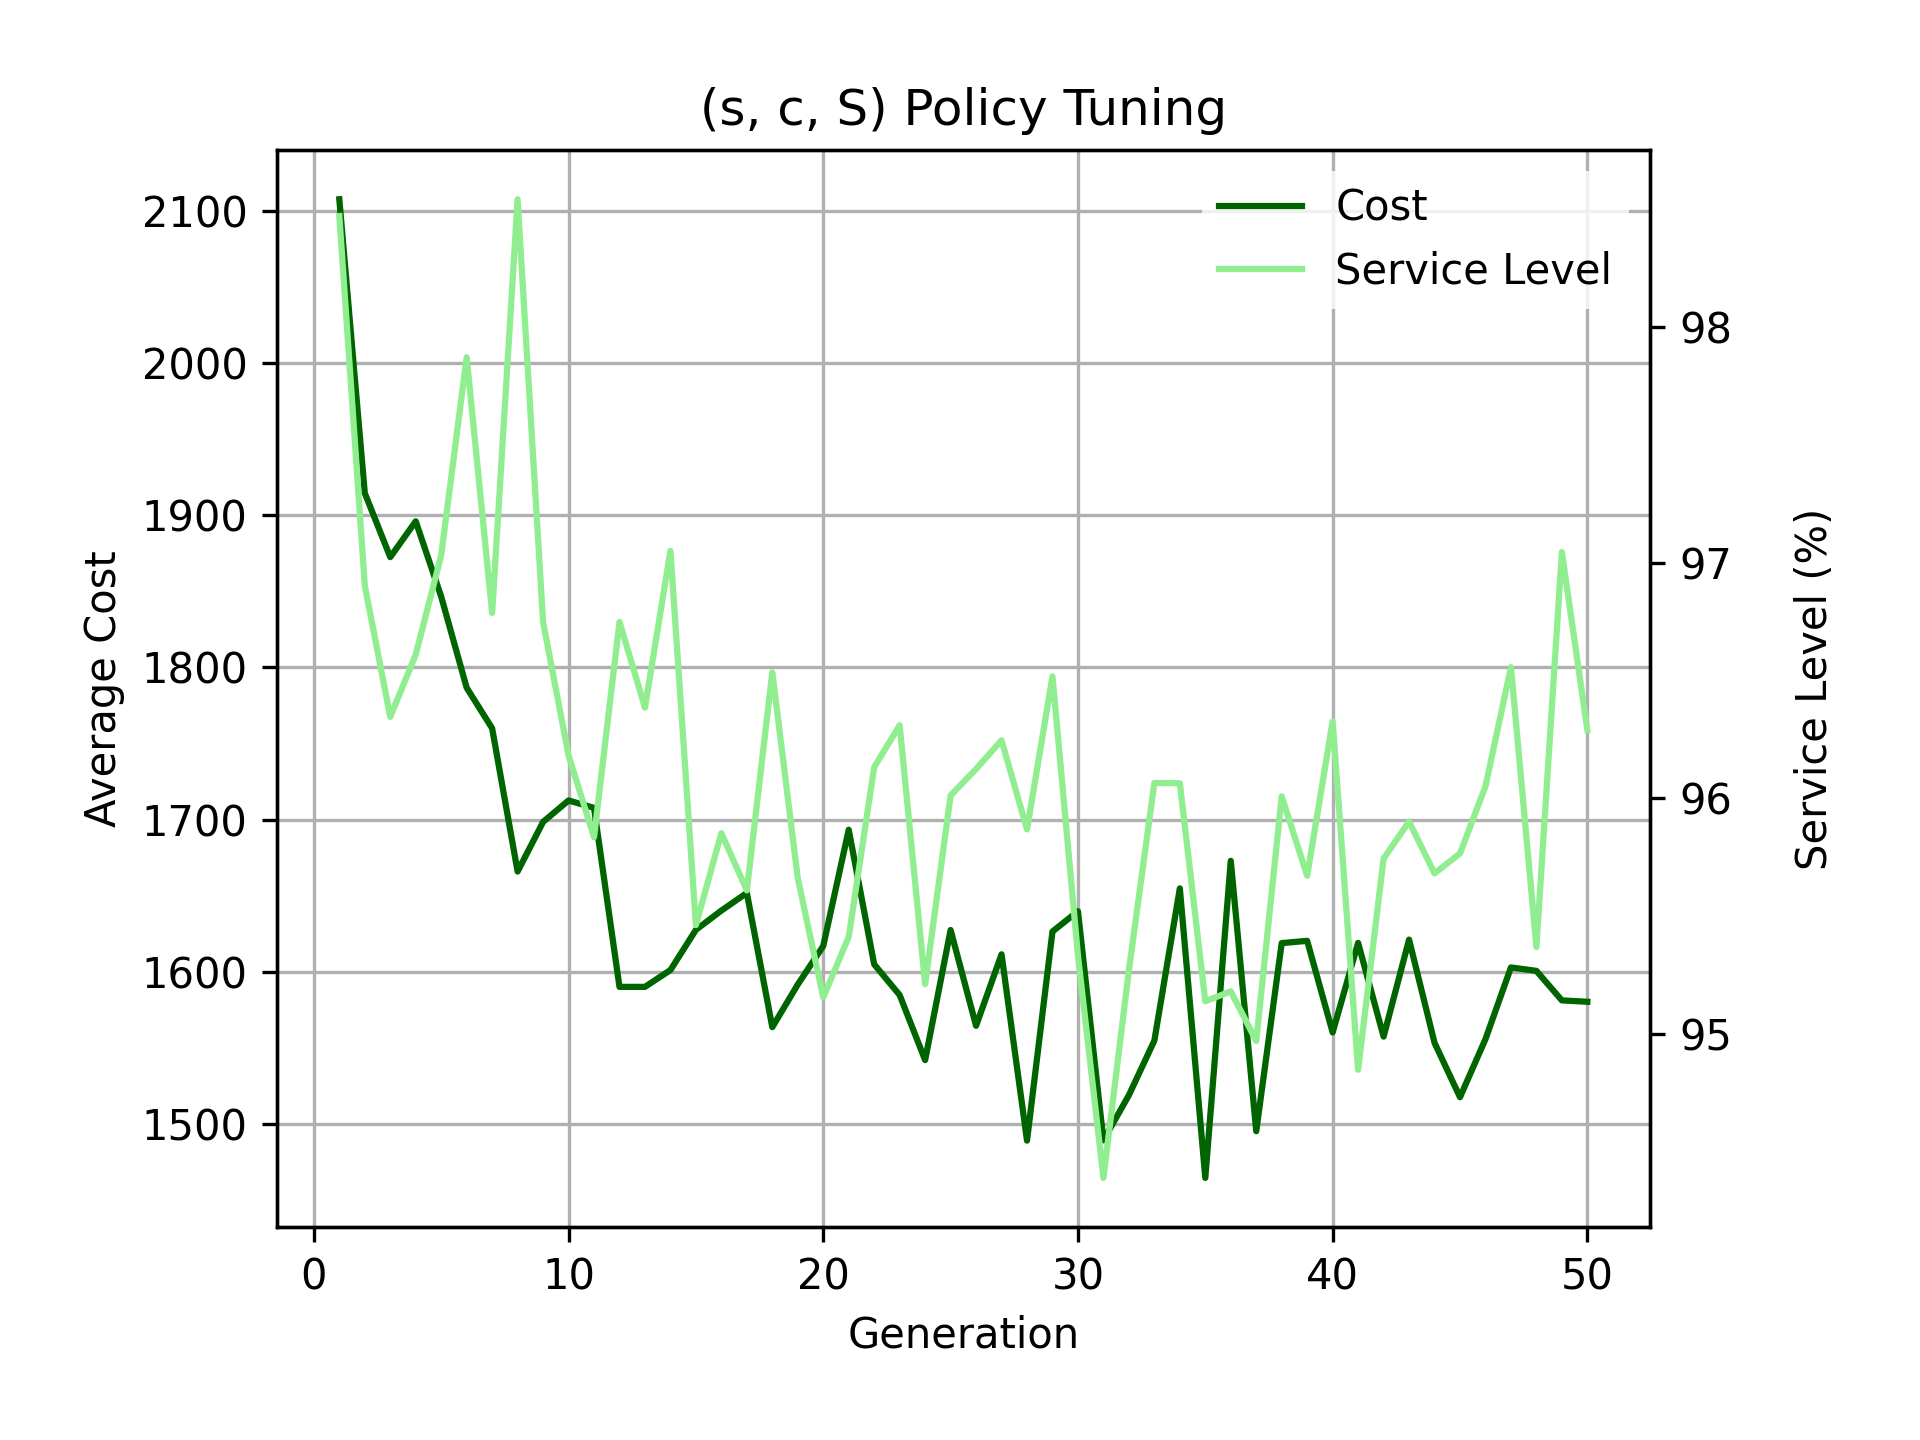
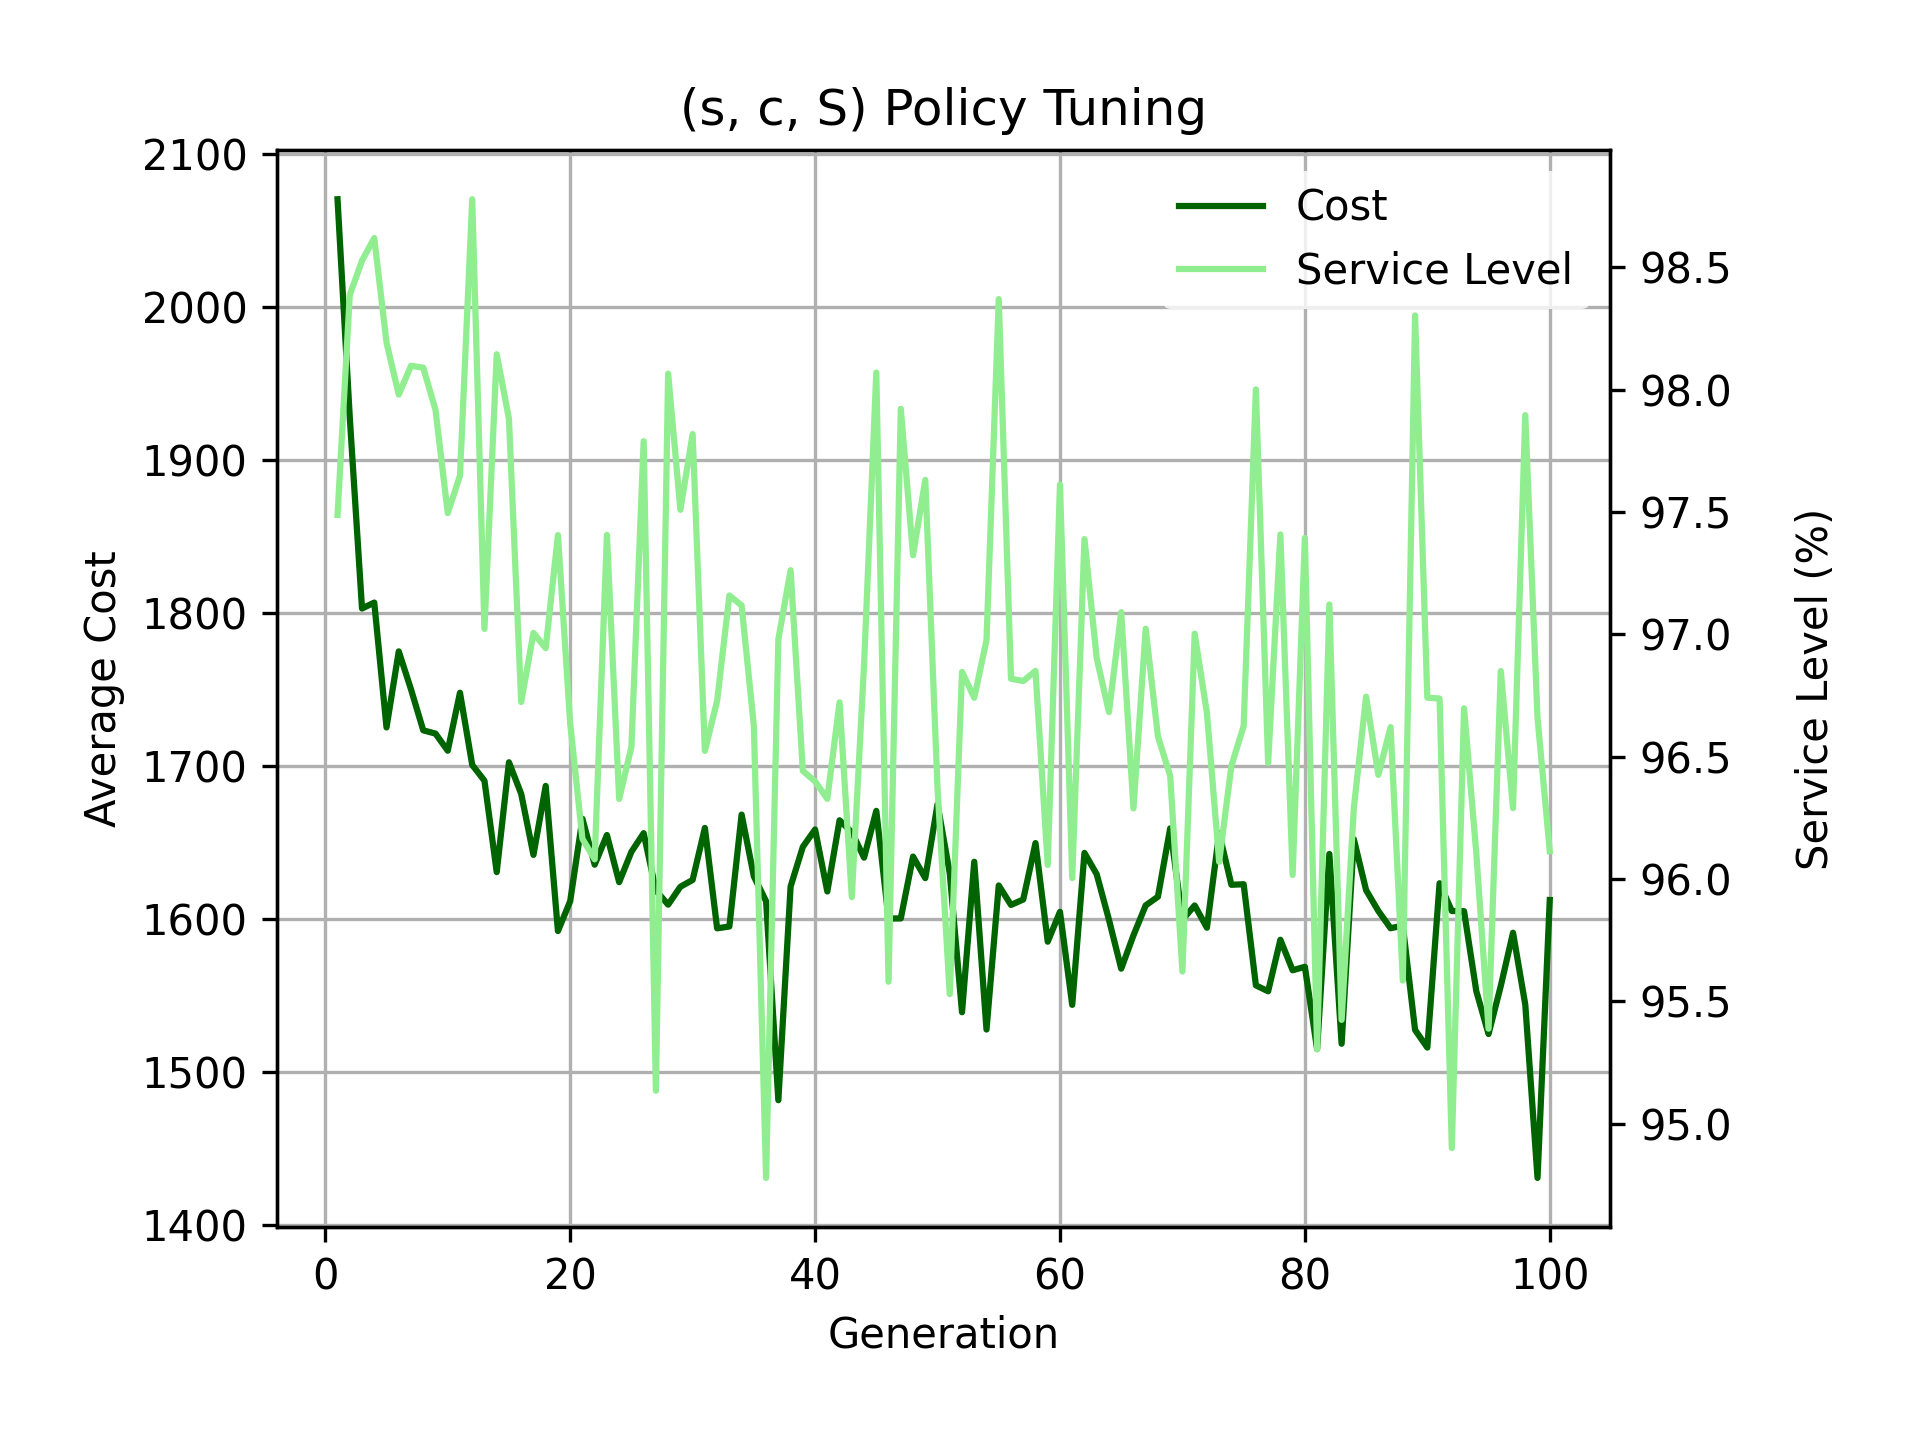
general updates and fixed simulation

diff --git a/CanOrder_JointReplenishment/src/CanOrder_JointReplenishment/demand.py b/CanOrder_JointReplenishment/src/CanOrder_JointReplenishment/demand.py
@@ -33,27 +33,21 @@ def create_empirical_distribution(demand_data, setup):
         demand_data (numpy.ndarray): 2D array of demand data.
         setup (dict): Dictionary containing setup parameters:
             - 'num_items' (int): Number of items.
-            - 'num_samples' (int): Number of samples to generate for each item.
     
     Returns:
         numpy.ndarray: 2D array of empirical distributions for each item.
     """
     num_items = setup['num_items']
-    num_samples = setup['num_samples']
     
     empirical_distributions = []
     for i in range(num_items):
 
         if i >= demand_data.shape[0]:  # Check if i is within the bounds of the data
             raise IndexError(f"Item index {i} is out of bounds for demand_data with shape {demand_data.shape}.")
-        
-        item_demand = demand_data[i, :]  # Select the demand data for the ith item
 
-        if item_demand.size == 0:
-            raise ValueError(f"No demand data available for item {i}. Please check the input data.")
-        
         # Generate empirical distribution by randomly sampling from historical data
-        empirical_distribution = np.random.choice(item_demand, size=num_samples, replace=True)
+        empirical_distribution = demand_data[i, :]
         empirical_distributions.append(empirical_distribution)
     
     return np.array(empirical_distributions)
+

diff --git a/CanOrder_JointReplenishment/src/CanOrder_JointReplenishment/genetic_algorithm.py b/CanOrder_JointReplenishment/src/CanOrder_JointReplenishment/genetic_algorithm.py
@@ -225,7 +225,7 @@ def genetic_algorithm(demand_distribution, setup):
 
         # Progress bar
         progress = (generation + 1) / num_generations * 100
-        sys.stdout.write(f'\rGeneration {generation + 1}/{num_generations} - Progress: {progress:.2f}% - Time for evaluation: {generation_time:.2f} seconds     ')
+        sys.stdout.write(f'\rGeneration {generation + 1}/{num_generations} - Progress: {progress:.2f}% - Last generation evaluation time: {generation_time:.2f} seconds     ')
         sys.stdout.flush()
 
     print()  # Move to the next line after the progress bar is done

diff --git a/CanOrder_JointReplenishment/src/CanOrder_JointReplenishment/simulation.py b/CanOrder_JointReplenishment/src/CanOrder_JointReplenishment/simulation.py
@@ -131,7 +131,7 @@ def simulate_policy(demand_distribution, policies, setup):
                 inventory_level[i] -= demand
             else:
                 total_demand_met += inventory_level[i]  # Partial demand fulfillment
-                total_cost += -(demand-inventory_level[i]) * backorder_cost
+                total_cost += (demand-inventory_level[i]) * backorder_cost
                 inventory_level[i] = 0  # Set inventory level to zero
 
             s, c, S = policies[i]
